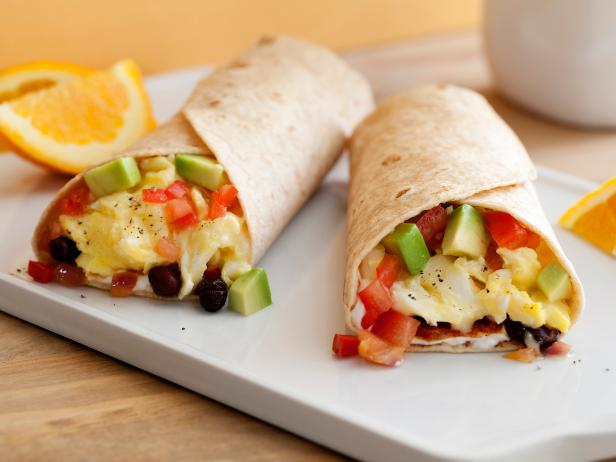
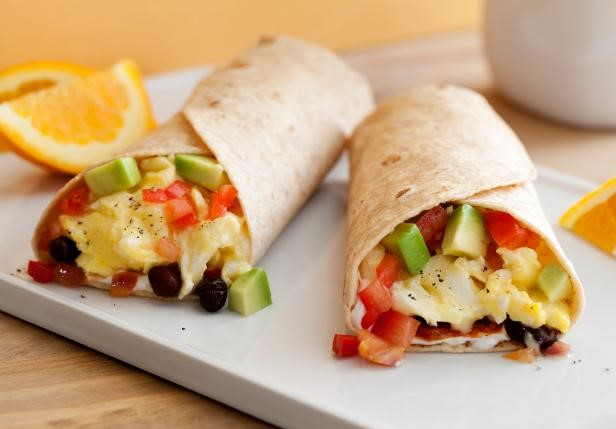
update about page

diff --git a/Page/about-us.html b/Page/about-us.html
@@ -126,7 +126,7 @@
             </div>
         </div>
         <div class="card">
-            <img src="../image/foods/img6.webp" alt="">
+            <img src="../image/foods/img6.psd.png" alt="">
 
             <div class="text">
                 <p>Fry up, counts among the world's most satisfying breakfast feasts.</p>
